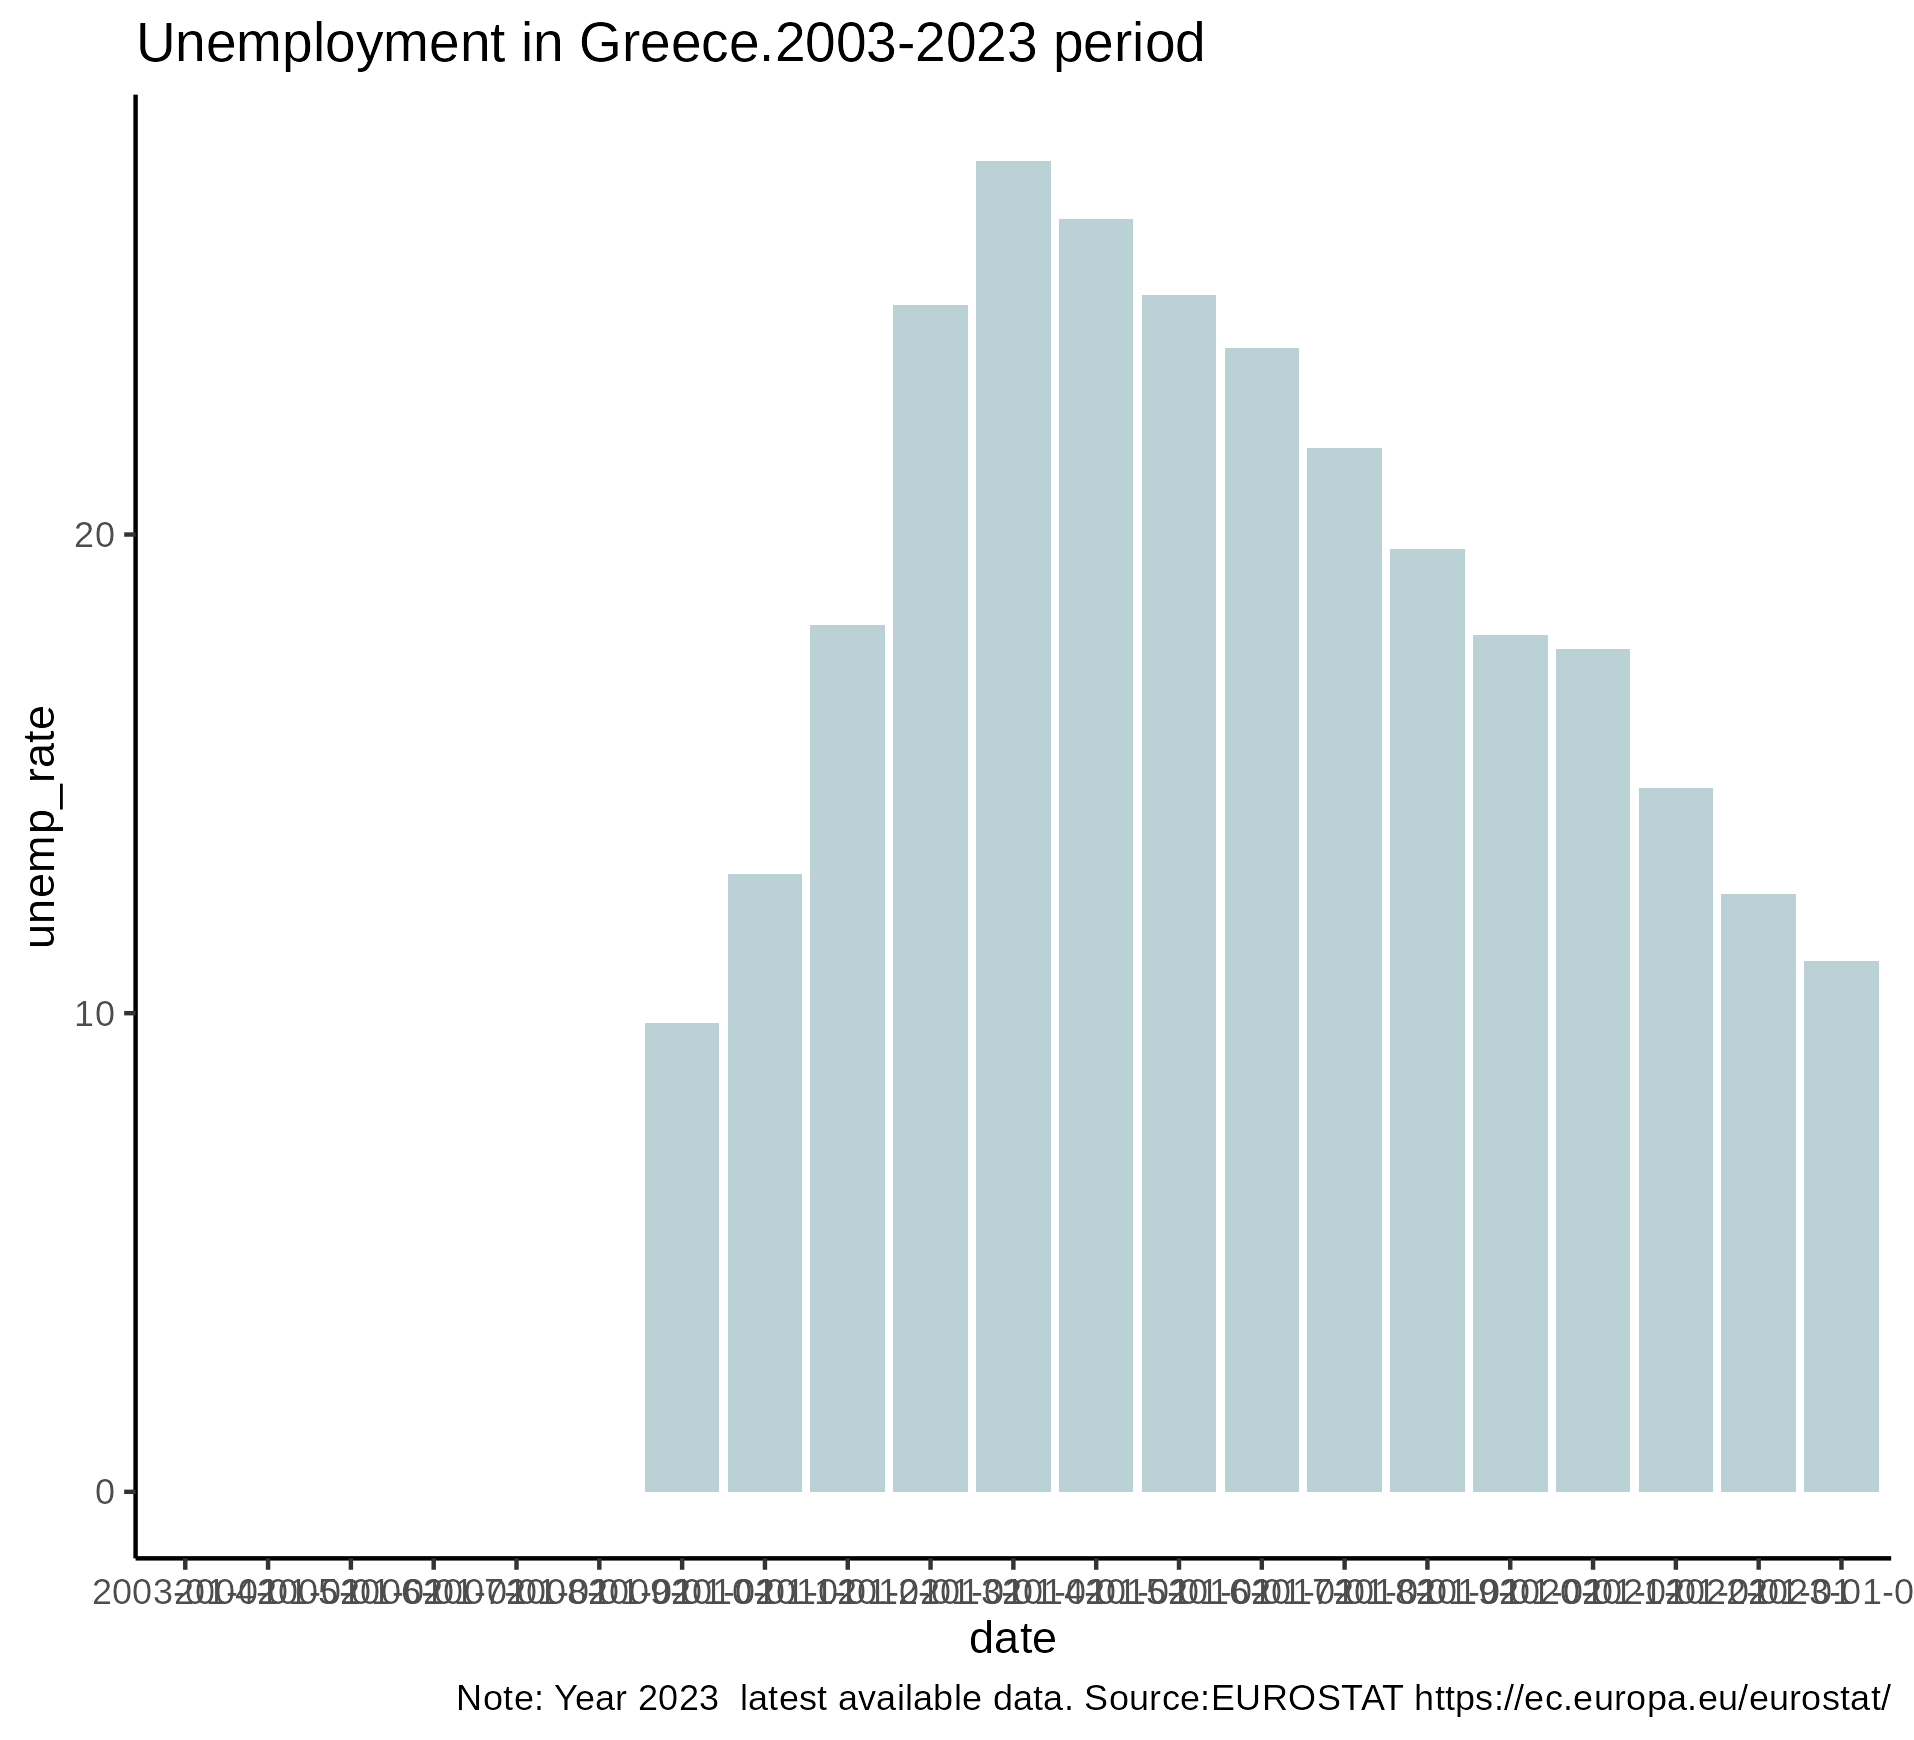
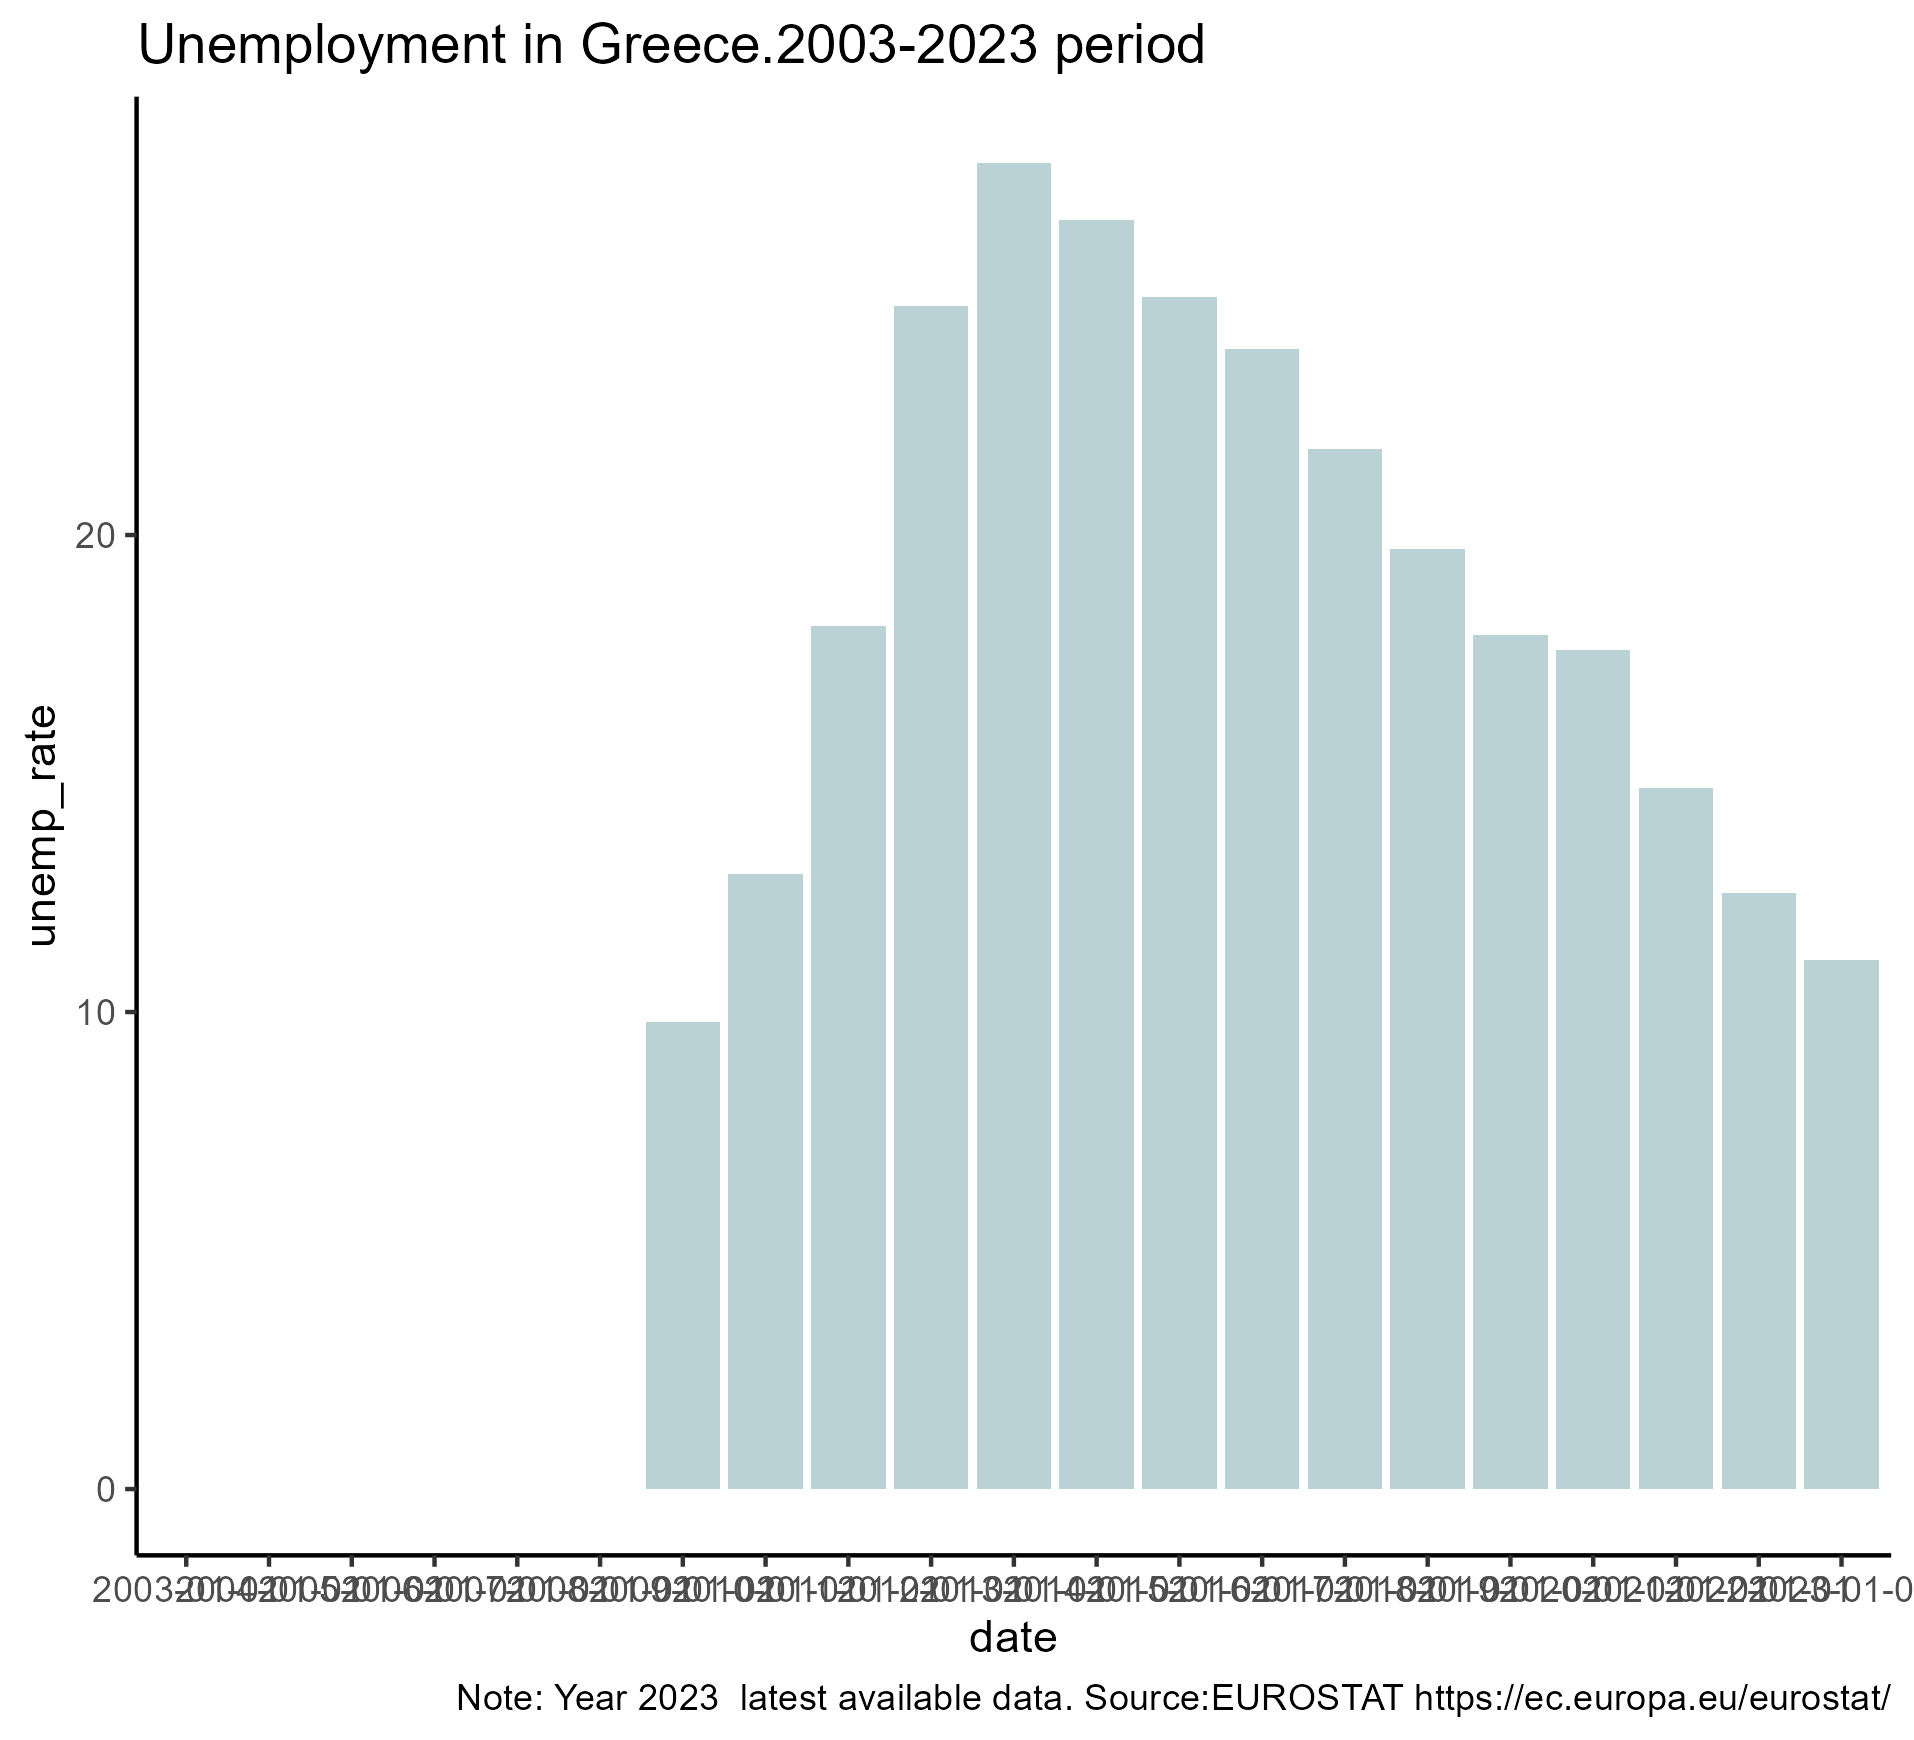
Rendered quarto document first ggplot2 bar plot created

diff --git a/Formatting unemployment rate bar plot.html b/Formatting unemployment rate bar plot.html
@@ -129,6 +129,7 @@ pre > code.sourceCode > span > a:first-child::before { text-decoration: underlin
   <li><a href="#load-unemployment-data" id="toc-load-unemployment-data" class="nav-link" data-scroll-target="#load-unemployment-data">1.Load unemployment data</a></li>
   <li><a href="#subset-initial-dataset-to-keep-just-greece-data" id="toc-subset-initial-dataset-to-keep-just-greece-data" class="nav-link" data-scroll-target="#subset-initial-dataset-to-keep-just-greece-data">2.Subset initial dataset to keep just Greece data</a></li>
   <li><a href="#create-two-flags-to-highlight-years-in-plot" id="toc-create-two-flags-to-highlight-years-in-plot" class="nav-link" data-scroll-target="#create-two-flags-to-highlight-years-in-plot">3.Create two flags to highlight years in plot</a></li>
+  <li><a href="#plot-basic-bar-plot-using-ggplot" id="toc-plot-basic-bar-plot-using-ggplot" class="nav-link" data-scroll-target="#plot-basic-bar-plot-using-ggplot">4. Plot basic bar plot using ggplot</a></li>
   </ul>
 </nav>
 </div>
@@ -283,6 +284,40 @@ pre > code.sourceCode > span > a:first-child::before { text-decoration: underlin
 <pre><code>[1] "date"           "Date"           "country"        "unemp_rate"    
 [5] "max_unemp"      "Max_unemp_flag" "Latest_date"    "Max_date_flag" </code></pre>
 </div>
+</div>
+</section>
+<section id="plot-basic-bar-plot-using-ggplot" class="level2">
+<h2 class="anchored" data-anchor-id="plot-basic-bar-plot-using-ggplot">4. Plot basic bar plot using ggplot</h2>
+<p>This is going to be the starting point of formatting a standard ggplot2 bar plot. It only contains the basic element and a single geom() to plot a simple bar plot.</p>
+<div class="cell">
+<div class="sourceCode cell-code" id="cb18"><pre class="sourceCode r code-with-copy"><code class="sourceCode r"><span id="cb18-1"><a href="#cb18-1" aria-hidden="true" tabindex="-1"></a><span class="co"># Create a basic bar plot</span></span>
+<span id="cb18-2"><a href="#cb18-2" aria-hidden="true" tabindex="-1"></a><span class="fu">str</span>(unemp_greece)</span></code><button title="Copy to Clipboard" class="code-copy-button"><i class="bi"></i></button></pre></div>
+<div class="cell-output cell-output-stdout">
+<pre><code>'data.frame':   21 obs. of  3 variables:
+ $ date      : Factor w/ 21 levels "2003-01-01","2004-01-01",..: 1 2 3 4 5 6 7 8 9 10 ...
+ $ country   : Factor w/ 36 levels "austria","belgium",..: 14 14 14 14 14 14 14 14 14 14 ...
+ $ unemp_rate: num  NA NA NA NA NA NA 9.8 12.9 18.1 24.8 ...</code></pre>
+</div>
+<div class="sourceCode cell-code" id="cb20"><pre class="sourceCode r code-with-copy"><code class="sourceCode r"><span id="cb20-1"><a href="#cb20-1" aria-hidden="true" tabindex="-1"></a>Plot01 <span class="ot">&lt;-</span> unemp_greece <span class="sc">%&gt;%</span> </span>
+<span id="cb20-2"><a href="#cb20-2" aria-hidden="true" tabindex="-1"></a>  <span class="fu">ggplot</span>(<span class="fu">aes</span>(<span class="at">x =</span> date, <span class="at">y =</span> unemp_rate)) <span class="sc">+</span></span>
+<span id="cb20-3"><a href="#cb20-3" aria-hidden="true" tabindex="-1"></a>  <span class="fu">geom_col</span>(<span class="at">fill =</span> <span class="st">"#BAD1D6"</span>)</span>
+<span id="cb20-4"><a href="#cb20-4" aria-hidden="true" tabindex="-1"></a></span>
+<span id="cb20-5"><a href="#cb20-5" aria-hidden="true" tabindex="-1"></a>Plot02 <span class="ot">&lt;-</span> unemp_greece <span class="sc">%&gt;%</span> </span>
+<span id="cb20-6"><a href="#cb20-6" aria-hidden="true" tabindex="-1"></a>  <span class="fu">ggplot</span>(<span class="fu">aes</span>(<span class="at">x =</span> date, <span class="at">y =</span> unemp_rate)) <span class="sc">+</span></span>
+<span id="cb20-7"><a href="#cb20-7" aria-hidden="true" tabindex="-1"></a>  <span class="fu">geom_col</span>(<span class="at">fill =</span> <span class="st">"#BAD1D6"</span>) <span class="sc">+</span></span>
+<span id="cb20-8"><a href="#cb20-8" aria-hidden="true" tabindex="-1"></a><span class="fu">labs</span>(<span class="at">title =</span> <span class="st">"Unemployment in Greece.2003-2023 period"</span>,</span>
+<span id="cb20-9"><a href="#cb20-9" aria-hidden="true" tabindex="-1"></a>     <span class="at">caption =</span> <span class="st">"Note: Year 2023  latest available data. Source:EUROSTAT https://ec.europa.eu/eurostat/"</span>) <span class="sc">+</span></span>
+<span id="cb20-10"><a href="#cb20-10" aria-hidden="true" tabindex="-1"></a>  <span class="fu">theme_classic</span>() </span>
+<span id="cb20-11"><a href="#cb20-11" aria-hidden="true" tabindex="-1"></a></span>
+<span id="cb20-12"><a href="#cb20-12" aria-hidden="true" tabindex="-1"></a>Plot02</span></code><button title="Copy to Clipboard" class="code-copy-button"><i class="bi"></i></button></pre></div>
+<div class="cell-output-display">
+<div>
+<figure class="figure">
+<p><img src="Formatting-unemployment-rate-bar-plot_files/figure-html/Basic%20ggplot2%20bar%20plot-1.png" class="img-fluid figure-img" width="1440"></p>
+</figure>
+</div>
+</div>
+<div class="sourceCode cell-code" id="cb21"><pre class="sourceCode r code-with-copy"><code class="sourceCode r"><span id="cb21-1"><a href="#cb21-1" aria-hidden="true" tabindex="-1"></a><span class="fu">ggsave</span>(<span class="st">"plots_output/10_Greece_unemployment_value.png"</span>, <span class="at">width =</span> <span class="fl">6.38</span>, <span class="at">height =</span> <span class="fl">5.80</span>)</span></code><button title="Copy to Clipboard" class="code-copy-button"><i class="bi"></i></button></pre></div>
 </div>
 </section>
 
